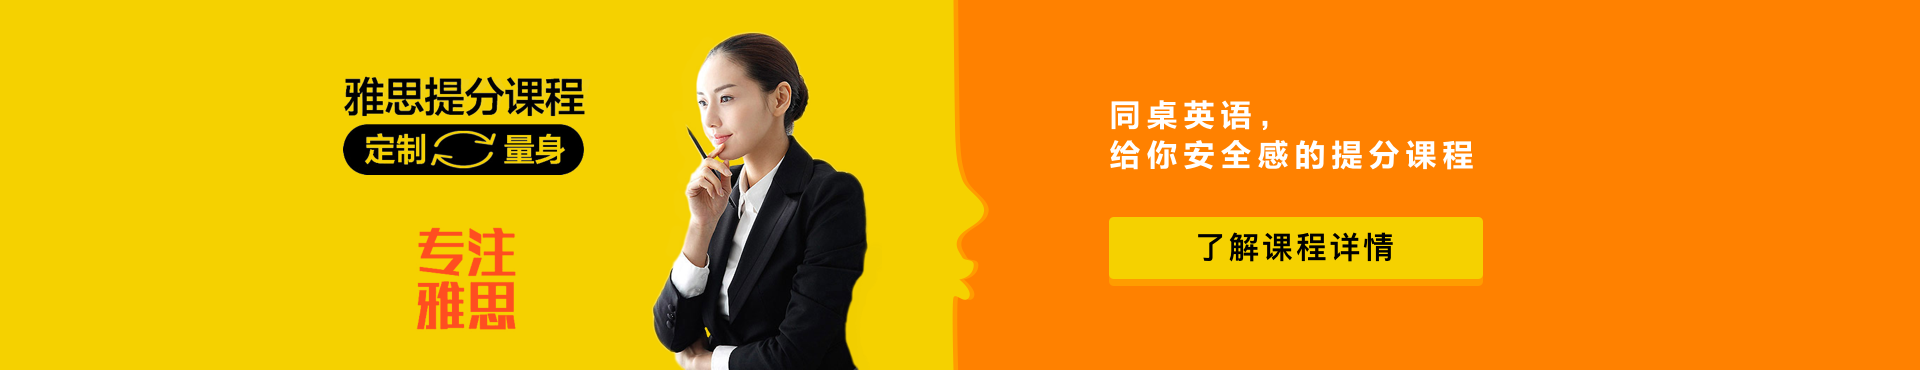
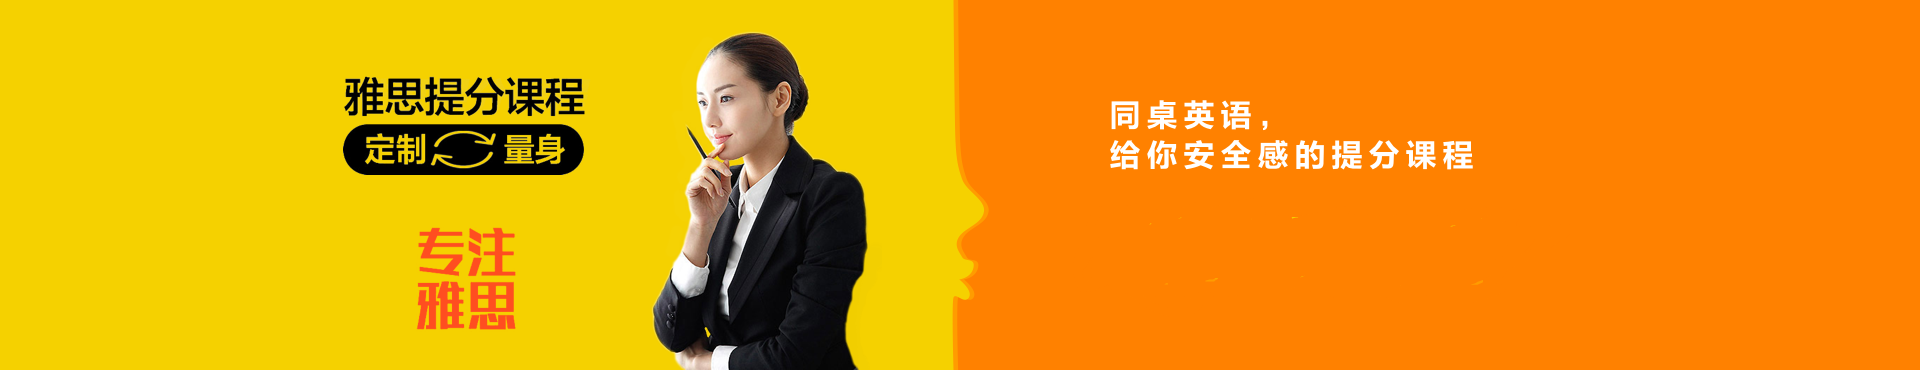
change

Changed region(s): [[0.5625, 0.5649, 0.7812, 0.773]]

diff --git a/o/提分课程-课程答疑.html b/o/提分课程-课程答疑.html
@@ -139,7 +139,7 @@
 
     		<div class="one-step">
     			<div class="title">
-    				<p>01</p>
+    				<p class="num-shu-line">02</p>
     				<p>为什么会有“2节体验课”？</p>
     			</div>
     			<div class="content-one">
@@ -155,7 +155,7 @@
 
             <div class="one-step">
                 <div class="title">
-                    <p>03</p>
+                    <p class="num-shu-line">03</p>
                     <p>体验课很满意，但是我要怎么购买正式课程呢？</p>
                 </div>
                 <div class="content-one">
@@ -167,7 +167,7 @@
 
             <div class="one-step">
                 <div class="title">
-                    <p>04</p>
+                    <p class="num-shu-line">04</p>
                     <p>体验课退款原则</p>
                 </div>
                 <div class="content-one">
@@ -190,7 +190,7 @@
 
             <div class="one-step">
                 <div class="title">
-                    <p>05</p>
+                    <p class="num-shu-line">05</p>
                     <p>导师是怎么确定我的提分费用的？</p>
                 </div>
                 <div class="content-one">
@@ -204,7 +204,7 @@
 
             <div class="one-step">
                 <div class="title">
-                    <p>06</p>
+                    <p class="num-shu-line">06</p>
                     <p>达到我的目标要上多少节课呢？</p>
                 </div>
                 <div class="content-one">
@@ -220,7 +220,7 @@
 
              <div class="one-step">
                 <div class="title">
-                    <p>07</p>
+                    <p class="num-shu-line">07</p>
                     <p>上课的形式</p>
                 </div>
                 <div class="content-one">
@@ -233,7 +233,7 @@
 
             <div class="one-step">
                 <div class="title">
-                    <p>08</p>
+                    <p class="num-shu-line">08</p>
                     <p>如果之前报读了外教的口语写作课程，怎么办？</p>
                 </div>
                 <div class="content-one">
@@ -246,7 +246,7 @@
 
              <div class="one-step">
                 <div class="title">
-                    <p>09</p>
+                    <p class="num-shu-line">09</p>
                     <p>正式课程你能收获什么？</p>
                 </div>
 
@@ -288,9 +288,9 @@
 
             </div>
         </div>
-	<div class="inner-banner-ji">
-        <img src="./imgs/RectangleCopy.png" alt="banner" width="100%">
-    </div>
+        <div class="inner-banner-ji">
+            <input type="text" class="btn click-link-btn" readonly value="了解课程详情">
+        </div>
 </div>
     <div class="bottom">
     <div class="inner-bottom">

diff --git a/o/css/style.css b/o/css/style.css
@@ -1220,12 +1220,37 @@ a:hover{
 .has-color li{
 	list-style: none;
 }
+.click-link-btn{
+	position: absolute;
+	left: 58%;
+	top: 140px;
+	background-color: rgb(245,209,0);
+	font-size: 14px;
+	font-weight: bolder;
+	width: 18%
+}
 
 
 .score-one .inner-banner-ji{
+	min-width: 1100px;
+	position: relative;
 	width: 100%;
 	margin-bottom: 45px;
+	height: 100%;
+	min-height: 245px;
+	background-size: 100% 100%;
+	background-image: url(../imgs/RectangleCopy.png);
 }
+.score-two .inner-banner-ji{
+	min-width: 1100px;
+	position: relative;
+	width: 100%;
+	height: 100%;
+	min-height: 245px;
+	background-size: 100% 100%;
+	background-image: url(../imgs/RectangleCopy.png);
+}
+
 
 .score-one .future-week .title{
 	width: 100%;
@@ -1237,6 +1262,15 @@ a:hover{
 	color: #151515;
 	line-height: 56px;
 	height: 56px;
+}
+.num-shu-line{
+	display: inline-block;
+	min-width:28px;
+	color: #FB8C00;
+	font-size: 20px;
+	transform: rotate(90deg);
+	text-align: center;
+	border-bottom: 2px solid #FB8C00;
 }
 .china-foreign .detail ul{
 	padding: 0px;

diff --git a/o/提分课程-提分课程.html b/o/提分课程-提分课程.html
@@ -204,7 +204,7 @@
         </div>
 
         <div class="inner-banner-ji">
-            <img src="./imgs/RectangleCopy.png" alt="banner" width="100%">
+            <input type="text" readonly class="btn click-link-btn" value="了解课程详情">
         </div>
 
         <div class="future-week">
